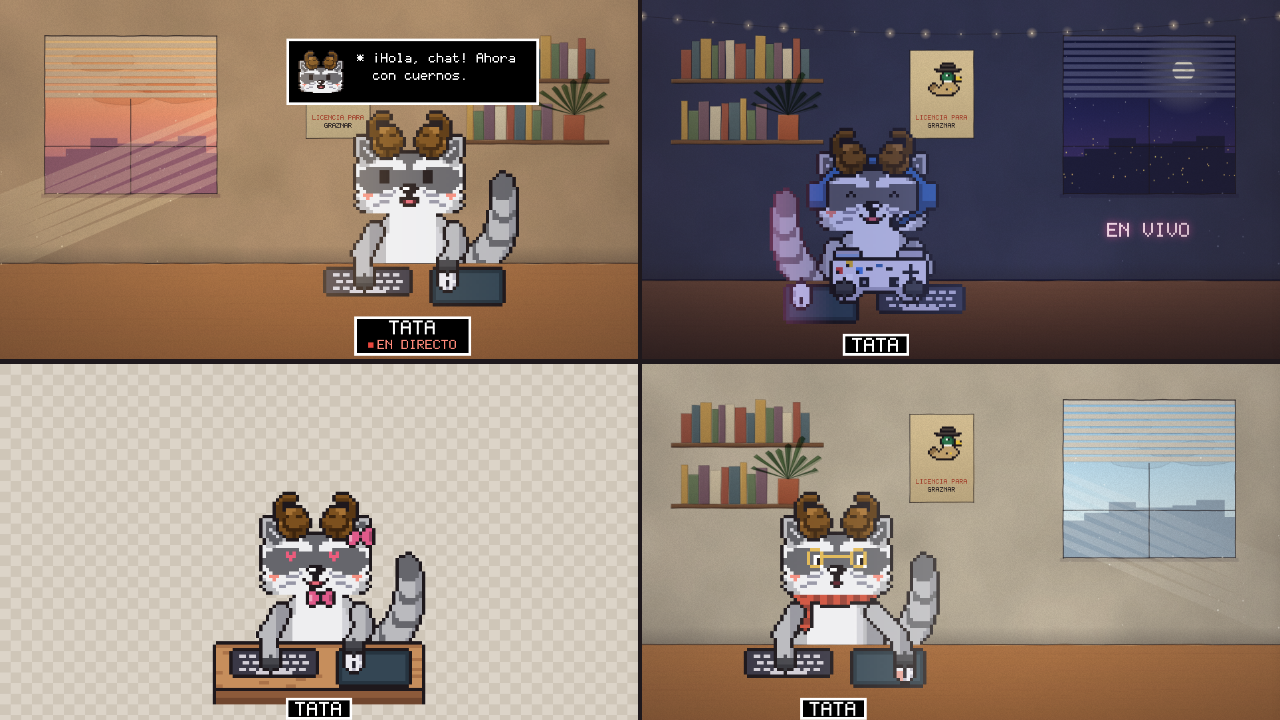
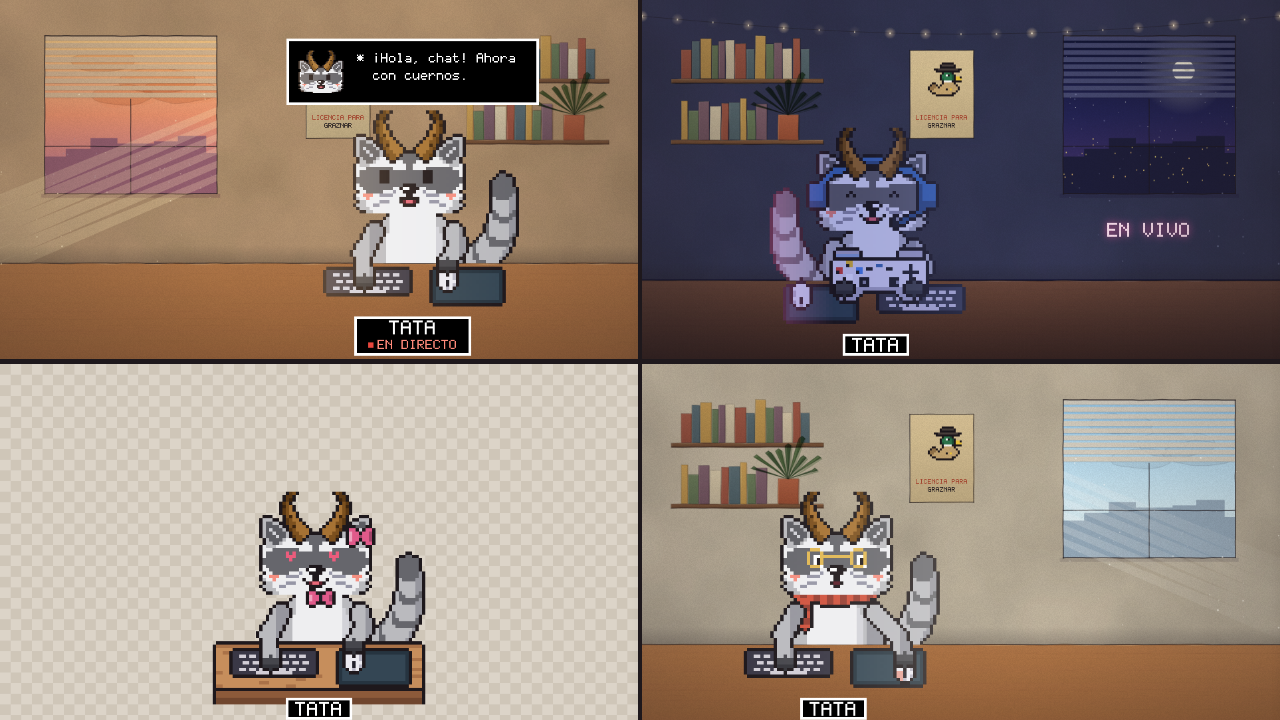
Cuernos curvos y puntiagudos en vez de la espiral
La espiral redonda con la punta en el centro se leía como otra cosa a
tamaño pequeño. Ahora cada cuerno es una media luna gruesa en la base,
que se curva hacia arriba y se afila en la punta, con sus estrías.

Claude-Session: https://claude.ai/code/session_014J54LbwnSENpbGwymhYpL9

diff --git a/mapache.html b/mapache.html
@@ -312,7 +312,7 @@ const CAB_IZQ = [
   '.....KKKKKKKKKKKK'];
 /* MAPACHE CON CUERNOS (del dibujo de Tata): orejas grandes de borde claro, cara blanca, antifaz gris unido por
    la raya de la frente, ojos altos sin brillo, nariz negra con brillo, boca ondulada, bigotes y babero blanco.
-   Los cuernos de carnero se pintan aparte (cuernos()) por encima de todo. 34×24 celdas. */
+   Los cuernos (curvos y puntiagudos) se pintan aparte (cuernos()) por encima de todo. 34×24 celdas. */
 const CUE_IZQ = [
   '.KKK.............',
   'KGGGKK...........',
@@ -466,24 +466,18 @@ function armarCabeza(st) {
     for (let y = 6; y <= 13; y++) { const xs = st.lado > 0 ? 17 : 16; if (hg(xs, y) === 'g') { hs(xs, y, 'G'); hs(st.lado > 0 ? 15 : 18, y, hg(st.lado > 0 ? 15 : 18, y) === 'G' ? 'g' : hg(st.lado > 0 ? 15 : 18, y)); } }
   }
 }
-/* cuernos de carnero: una espiral con estrías y la punta hacia arriba, reflejada para el otro lado */
+/* cuernos: media luna curva y puntiaguda (gruesa en la base, afilada en la punta) con estrías, reflejada al otro lado */
 function cuernos(P) {
+  const C = [[11.6, 4.6], [9.6, 1.6], [8.1, -1.4], [7.8, -4], [8.7, -6.2], [10, -7.2]];   // de la base a la punta
+  const n = 40, pts = [];
+  for (let i = 0; i <= n; i++) { const f = i / n * (C.length - 1), k = Math.min(C.length - 2, Math.floor(f)), t = f - k; pts.push([lerp(C[k][0], C[k + 1][0], t), lerp(C[k][1], C[k + 1][1], t), i / n]); }
   for (const s of [1, -1]) {
-    const X = x => s > 0 ? x : HW - 1 - x, cx0 = 9.8, cy0 = 1.9, R = 4.5;
-    /* la espiral: una bola con estrías en arco (como los segmentos del dibujo), luz arriba a la izquierda */
-    for (let y = -5; y <= 7; y++) for (let x = 3; x <= 16; x++) {
-      const dx = x - cx0, dy = y - cy0, d = Math.hypot(dx, dy); if (d > R) continue;
-      const an = Math.atan2(dy, dx); let c = 'O';
-      if (dx * .6 + dy > 2.4) c = 'o'; else if (dx + dy < -3.6) c = 'U';
-      if (Math.abs(d - 2.6) < .5 && (an < -2.2 || an > .5)) c = 'u';          // arco interior
-      if (Math.abs(dx - dy * .35 + 1.2) < .5 && dy > 1.4) c = 'u';             // estría que baja
-      if (Math.abs(dy + dx * .3 + 1.6) < .5 && dx > 1) c = 'u';                // estría hacia fuera
-      P.p(X(x), y, c);
+    const X = x => s > 0 ? x : HW - 1 - x;
+    for (const [px, py, u] of pts) {
+      const r = lerp(2.5, .2, u ** .8), estria = [.2, .38, .56, .72].some(e => Math.abs(u - e) < .02);
+      P.disco(X(px), py, r, (x, y) => { const fuera = s > 0 ? x < px - r * .35 : x > X(px) + r * .35;
+        return estria ? 'u' : fuera ? 'o' : (s > 0 ? x > px + r * .45 : x < X(px) - r * .45) ? 'U' : 'O'; });
     }
-    /* el gancho: fino, sale del borde de fuera y se curva hacia dentro (no un cono en el centro) */
-    const G = [[5.9, -.2], [5.3, -2.7], [6.1, -4.7], [7.9, -5.8], [10, -5.6]];
-    for (let i = 0; i < G.length - 1; i++) for (let k = 0; k <= 4; k++) { const u = (i + k / 4) / (G.length - 1), px = lerp(G[i][0], G[i + 1][0], k / 4), py = lerp(G[i][1], G[i + 1][1], k / 4), r = lerp(1.35, .5, u);
-      P.disco(X(px), py, r, (x, y) => (y > py + .3 || (s > 0 ? x > px + .4 : x < X(px) - .4)) ? 'o' : (u > .2 && u < .3 ? 'u' : 'O')); }
   }
 }
 

diff --git a/README.md b/README.md
@@ -81,7 +81,7 @@ Las teclas sueltas solo funcionan con la ventana del mapache activa. Durante un 
 En el panel → *Mapache* → **Personaje**:
 
 - **Mapache clásico**: con su antifaz de bandido, la raya en la frente y la boca en ω.
-- **Mapache con cuernos**: orejas grandes de borde claro, cuernos de carnero enroscados, ojos altos y negros, nariz con brillo, boca ondulada, bigotes y babero blanco. Al elegirlo se pone el pelaje **Plata** y se quitan los gorros y los auriculares para que se vean los cuernos. Después se pueden volver a poner.
+- **Mapache con cuernos**: orejas grandes de borde claro, cuernos curvos y puntiagudos con estrías, ojos altos y negros, nariz con brillo, boca ondulada, bigotes y babero blanco. Al elegirlo se pone el pelaje **Plata** y se quitan los gorros y los auriculares para que se vean los cuernos. Después se pueden volver a poner.
 
 Las expresiones, los accesorios, el ratón, el teclado y el mando funcionan igual con los dos. También se puede elegir en la dirección: `?personaje=cuernos`.
 
@@ -134,7 +134,7 @@ Todo está en `mapache.html`:
 
 - `CAB_IZQ` y `CUE_IZQ`: media cabeza de cada personaje, dibujada a mano carácter a carácter; se refleja para hacer la otra mitad.
 - `PERSONAJES`: dónde van los ojos, la nariz y el rubor de cada uno, y qué lleva (cuernos, bigotes, babero…).
-- `cuernos()`: los cuernos de carnero.
+- `cuernos()`: los cuernos (una media luna que se afila hacia la punta).
 - `PELAJES`: las paletas de pelaje.
 - `ojos()` y `boca()`: las expresiones.
 - `armarCabeza()`: los accesorios.
